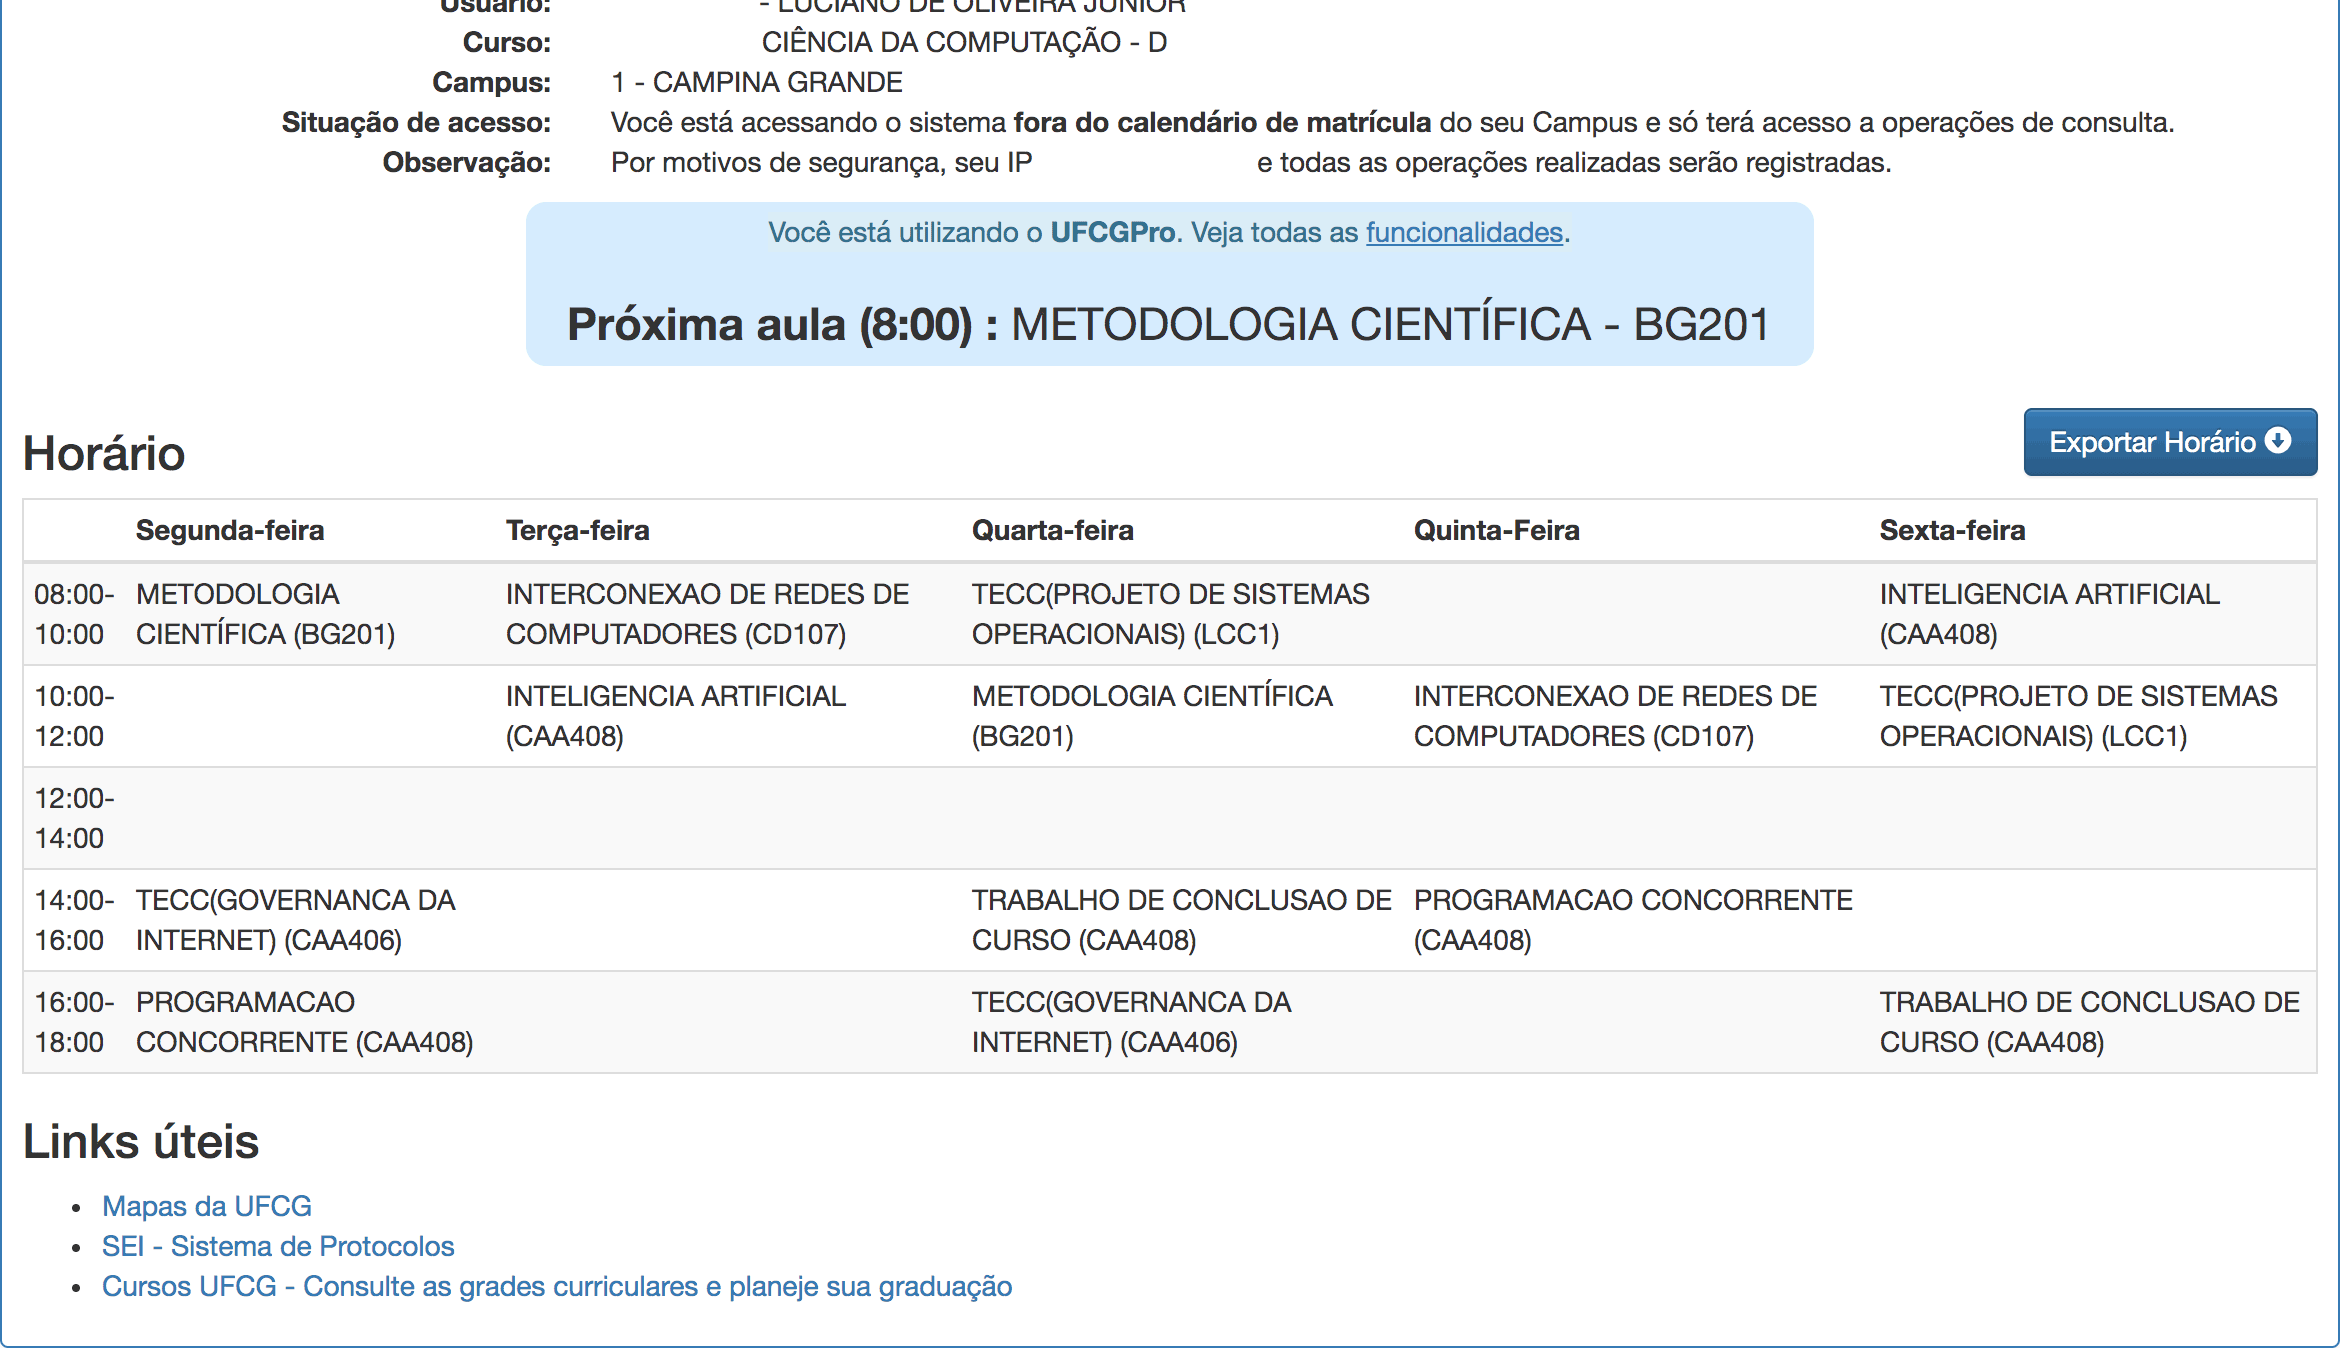
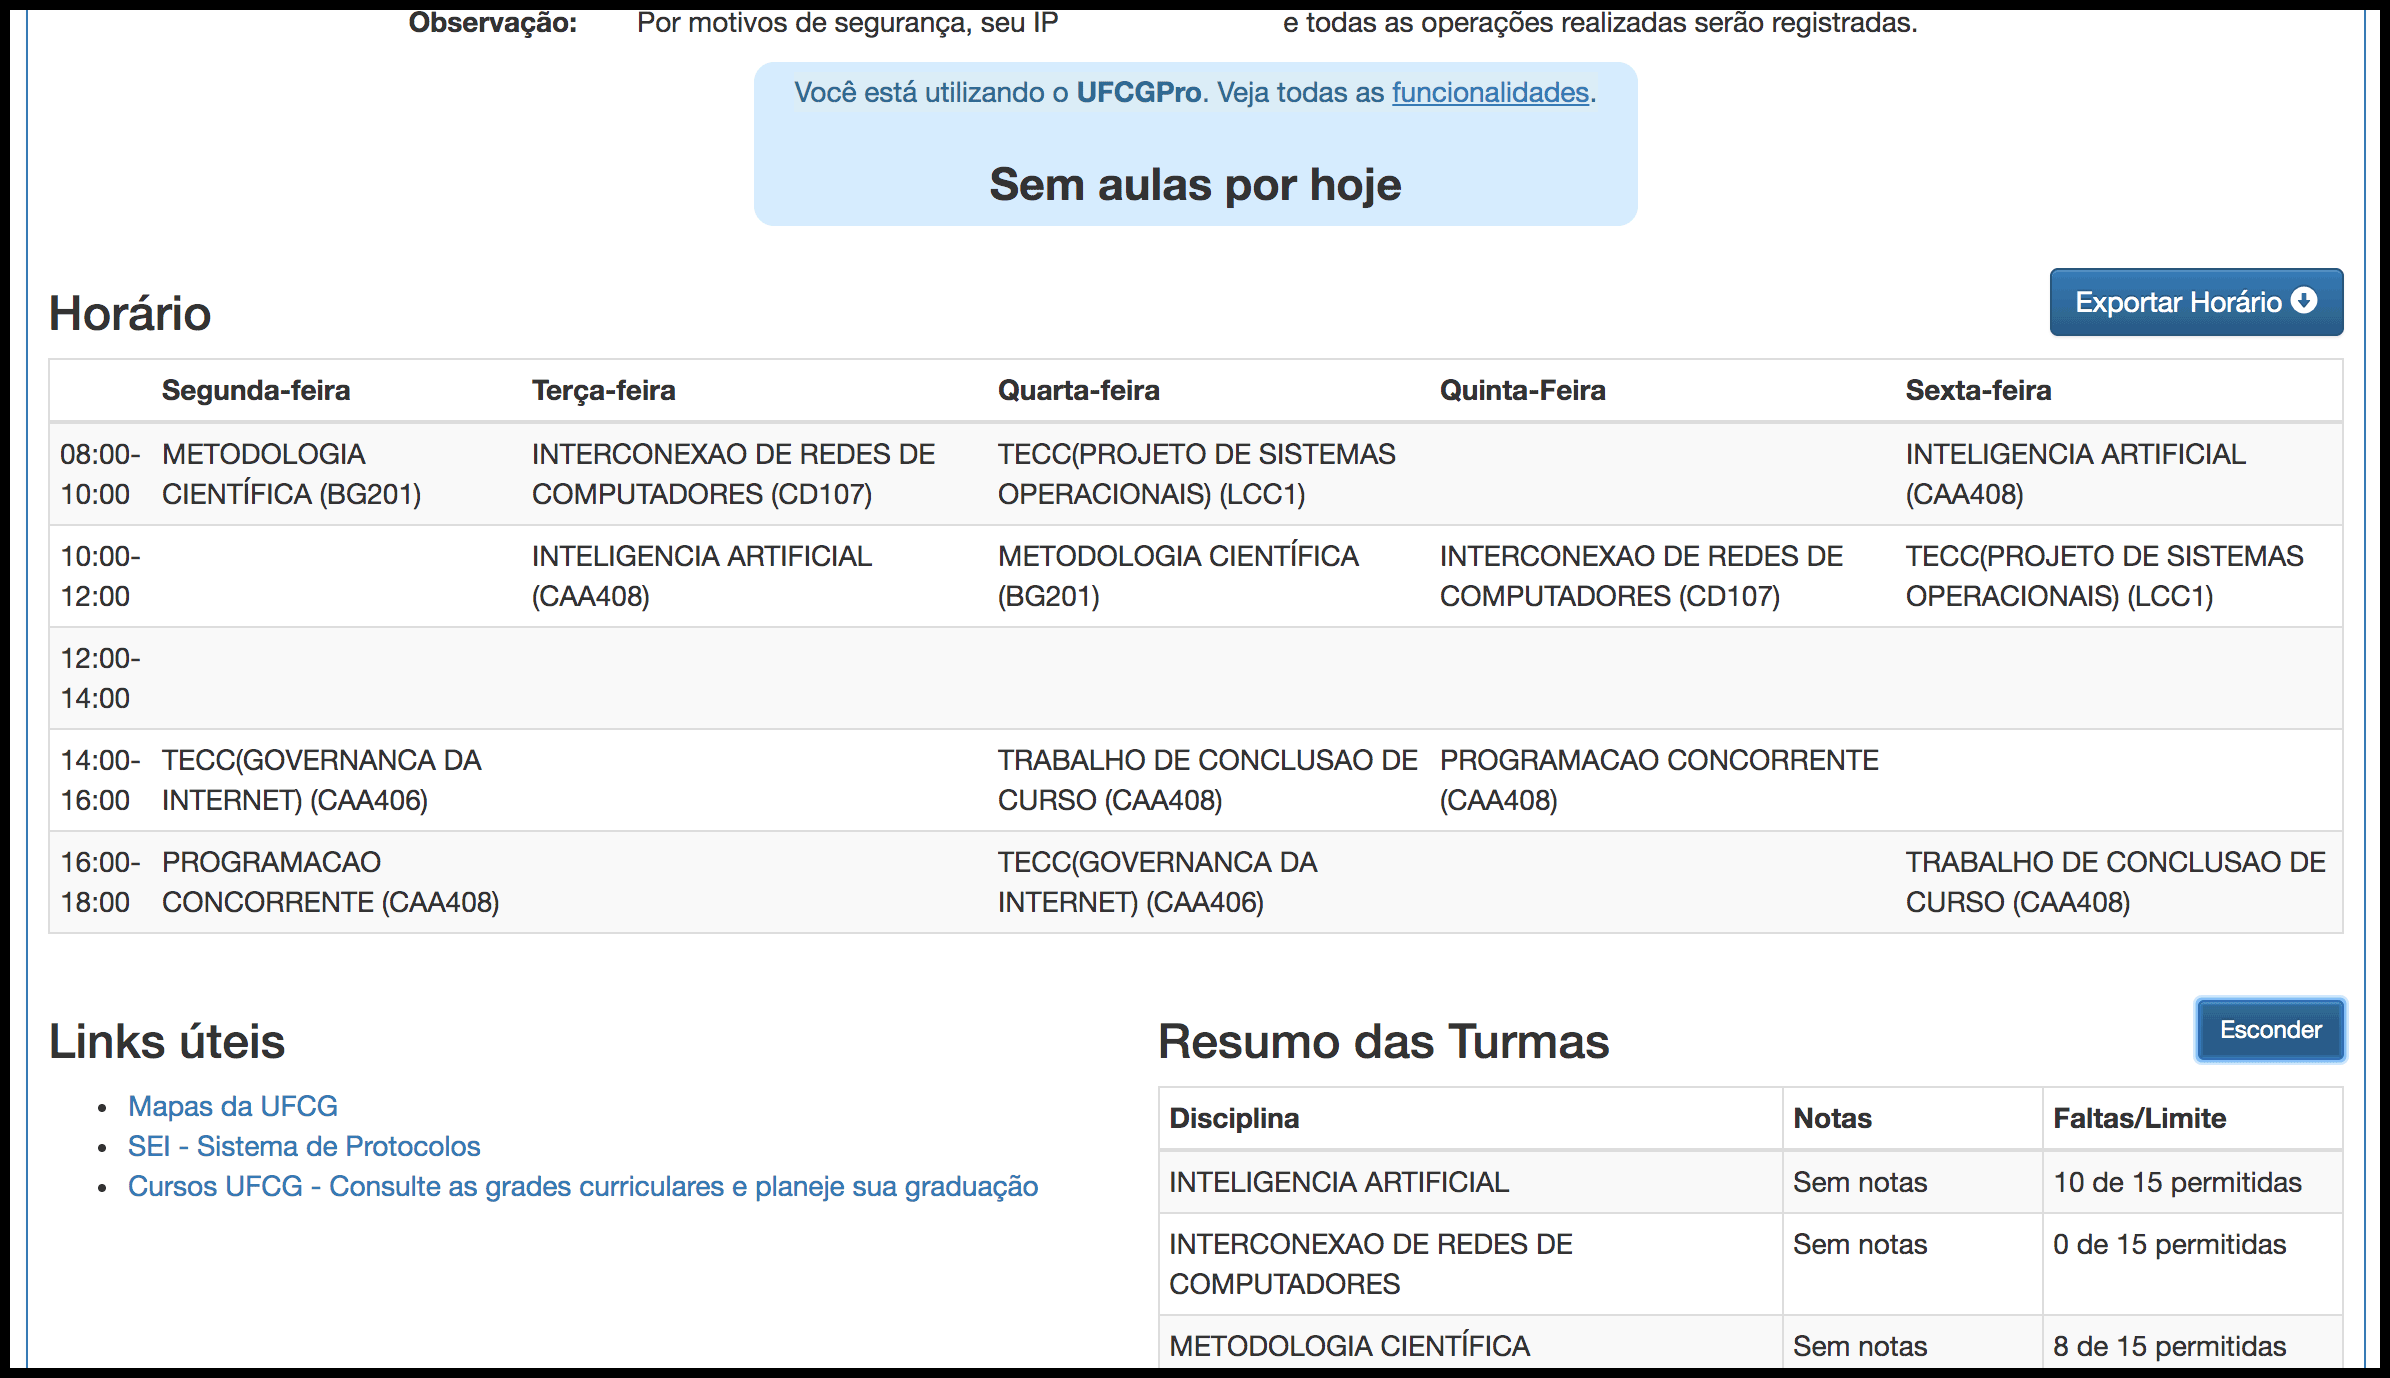
Ajustes no REsumo e novas imagens

Changed region(s): [[0.0, 0.0, 1.0, 1.0], [0.7175, 0.7789, 0.8111, 0.9347]]

diff --git a/src/components/Resumo.vue b/src/components/Resumo.vue
@@ -15,11 +15,11 @@
       <tbody>
         <tr v-for="turma in turmas" v-bind:key="turma.cadeira">
           <td>{{ turma.cadeira }}</td>
-          <td class="text-nowrap" style="min-width: 120px;">
+          <td class="text-nowrap" style="min-width: 130px;">
             {{ mostrar ? turma.notas : '' }}
             <div v-if="!mostrar" style="width:108px; height: 20px; background-color: #ddd;"></div>
           </td>
-          <td class="text-nowrap" style="min-width: 120px;">
+          <td class="text-nowrap" style="min-width: 150px;">
             {{ mostrar ? turma.faltas : '' }}
             <div v-if="!mostrar" style="width:108px; height: 20px; background-color: #ddd;"></div>
           </td>
